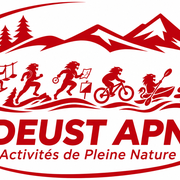
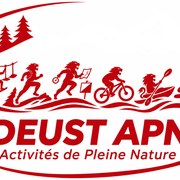
Add files via upload

Changed region(s): [[0.0278, 0.0556, 1.0, 0.3056]]

diff --git a/public/index.html b/public/index.html
@@ -1,1 +1,1 @@
-<!doctype html><html lang="fr"><head><meta charset="utf-8"><meta name="viewport" content="width=device-width,initial-scale=1"><title>Mon parcours en DEUST · APN</title><link rel="icon" type="image/png" sizes="256x256" href="/assets/favicon.png?v=3.16"><link rel="apple-touch-icon" sizes="180x180" href="/assets/apple-touch-icon.png?v=3.16"><link rel="stylesheet" href="/style.css"></head><body><header><div class="logos"><img class="main-logo" src="/assets/deust-apn-logo.png" alt="Logo DEUST APN"><img src="/assets/universite-poitiers.png"><img src="/assets/staps-universite-poitiers.png"></div><div><small>DEUST STAPS · ACTIVITÉS DE PLEINE NATURE</small><h1>Mon parcours en DEUST · Activités de Pleine Nature</h1></div></header><main><section id="login" class="card login"><div><small>PORTFOLIO PROFESSIONNEL</small><h2>Bienvenue dans votre parcours Deust APN</h2><p>Un espace partagé pour suivre les expériences, les stages et la progression des compétences.</p></div><div class="loginforms"><form id="studentLogin"><h3>Accès étudiant</h3><label>Identifiant étudiant<input id="studentId" required></label><label>Code personnel<input id="studentCode" type="password" required></label><button>Se connecter</button></form><form id="teacherLogin"><h3>Accès enseignant</h3><label>Identifiant<input id="teacherUser" required></label><label>Mot de passe<input id="teacherPass" type="password" required></label><button>Ouvrir l’espace enseignant</button></form><form id="tutorLogin"><h3>Accès tuteur</h3><label>Email<input id="tutorUser" type="email" required></label><label>Code personnel<input id="tutorPass" type="password" required></label><button>Ouvrir l’espace tuteur</button></form><p id="loginError" class="error"></p></div></section><section id="workspace" class="hidden"><div class="bar"><div><b id="who"></b><span id="role"></span></div><button id="logout" class="light">Déconnexion</button></div><nav id="nav"></nav><div id="content"></div></section></main><footer>Université de Poitiers · UFR STAPS · DEUST AGAPSC Activités de Pleine Nature</footer><script src="/app.js"></script></body></html>
+<!doctype html><html lang="fr"><head><meta charset="utf-8"><meta name="viewport" content="width=device-width,initial-scale=1"><title>Mon parcours en DEUST · APN</title><link rel="icon" type="image/png" sizes="256x256" href="/assets/favicon.png?v=3.18"><link rel="apple-touch-icon" sizes="180x180" href="/assets/apple-touch-icon.png?v=3.18"><link rel="stylesheet" href="/style.css"></head><body><header><div class="logos"><img class="main-logo" src="/assets/deust-apn-logo.png" alt="Logo DEUST APN"><img src="/assets/universite-poitiers.png"><img src="/assets/staps-universite-poitiers.png"></div><div><small>DEUST STAPS · ACTIVITÉS DE PLEINE NATURE</small><h1>Mon parcours en DEUST · Activités de Pleine Nature</h1></div></header><main><section id="login" class="card login"><div><small>PORTFOLIO PROFESSIONNEL</small><h2>Bienvenue dans votre parcours Deust APN</h2><p>Un espace partagé pour suivre les expériences, les stages et la progression des compétences.</p></div><div class="loginforms"><form id="studentLogin"><h3>Accès étudiant</h3><label>Identifiant étudiant<input id="studentId" required></label><label>Code personnel<input id="studentCode" type="password" required></label><button>Se connecter</button></form><form id="teacherLogin"><h3>Accès enseignant</h3><label>Identifiant<input id="teacherUser" required></label><label>Mot de passe<input id="teacherPass" type="password" required></label><button>Ouvrir l’espace enseignant</button></form><form id="tutorLogin"><h3>Accès tuteur</h3><label>Email<input id="tutorUser" type="email" required></label><label>Code personnel<input id="tutorPass" type="password" required></label><button>Ouvrir l’espace tuteur</button></form><p id="loginError" class="error"></p></div></section><section id="workspace" class="hidden"><div class="bar"><div><b id="who"></b><span id="role"></span></div><button id="logout" class="light">Déconnexion</button></div><nav id="nav"></nav><div id="content"></div></section></main><footer>Université de Poitiers · UFR STAPS · DEUST AGAPSC Activités de Pleine Nature</footer><script src="/app.js"></script></body></html>

diff --git a/README.md b/README.md
@@ -67,3 +67,8 @@ Les 18 critères transversaux et les niveaux d'évaluation reprennent la fiche d
 ## V3.17 – Icône carrée plein cadre
 - Les icônes favicon et Apple Touch Icon utilisent désormais un recadrage carré plein cadre du logo de bandeau, sans marge transparente autour.
 - Le recadrage conserve le centre du logo et remplit intégralement le carré des raccourcis mobiles.
+
+
+## V3.18 – Logo DEUST sans montagne en arrière-plan
+- Suppression du motif de montagne en arrière-plan du logo DEUST APN du bandeau, en conservant les activités, les arbres, le texte et l’encadrement.
+- Régénération du favicon et de l’icône de raccourci mobile à partir de ce logo modifié.
